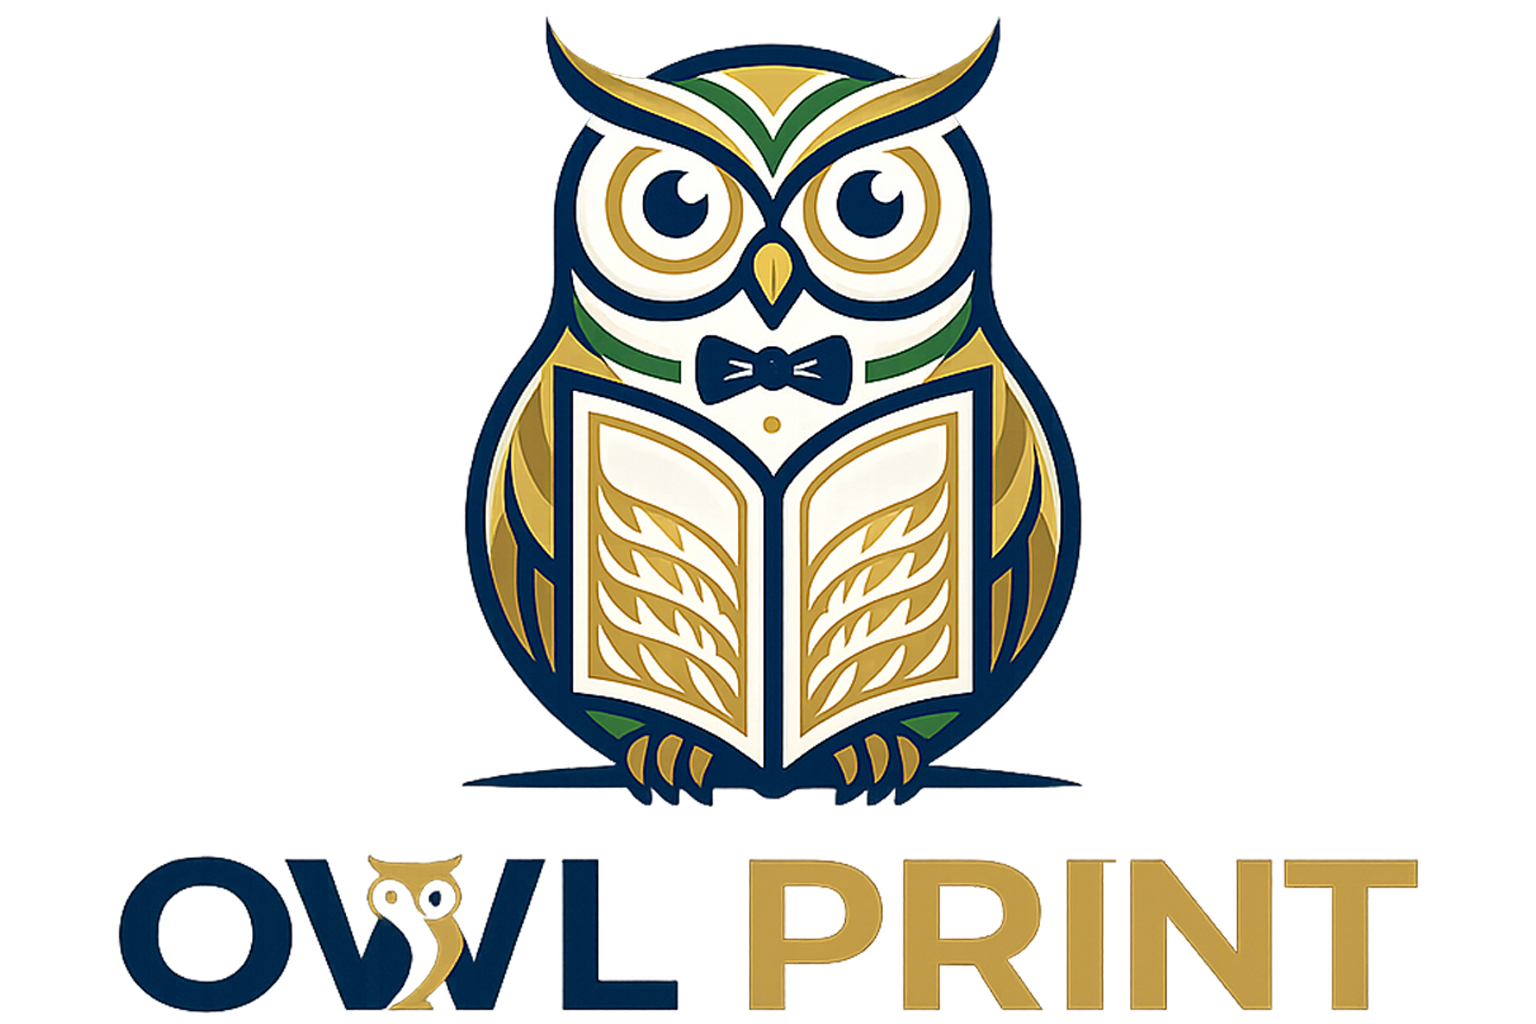
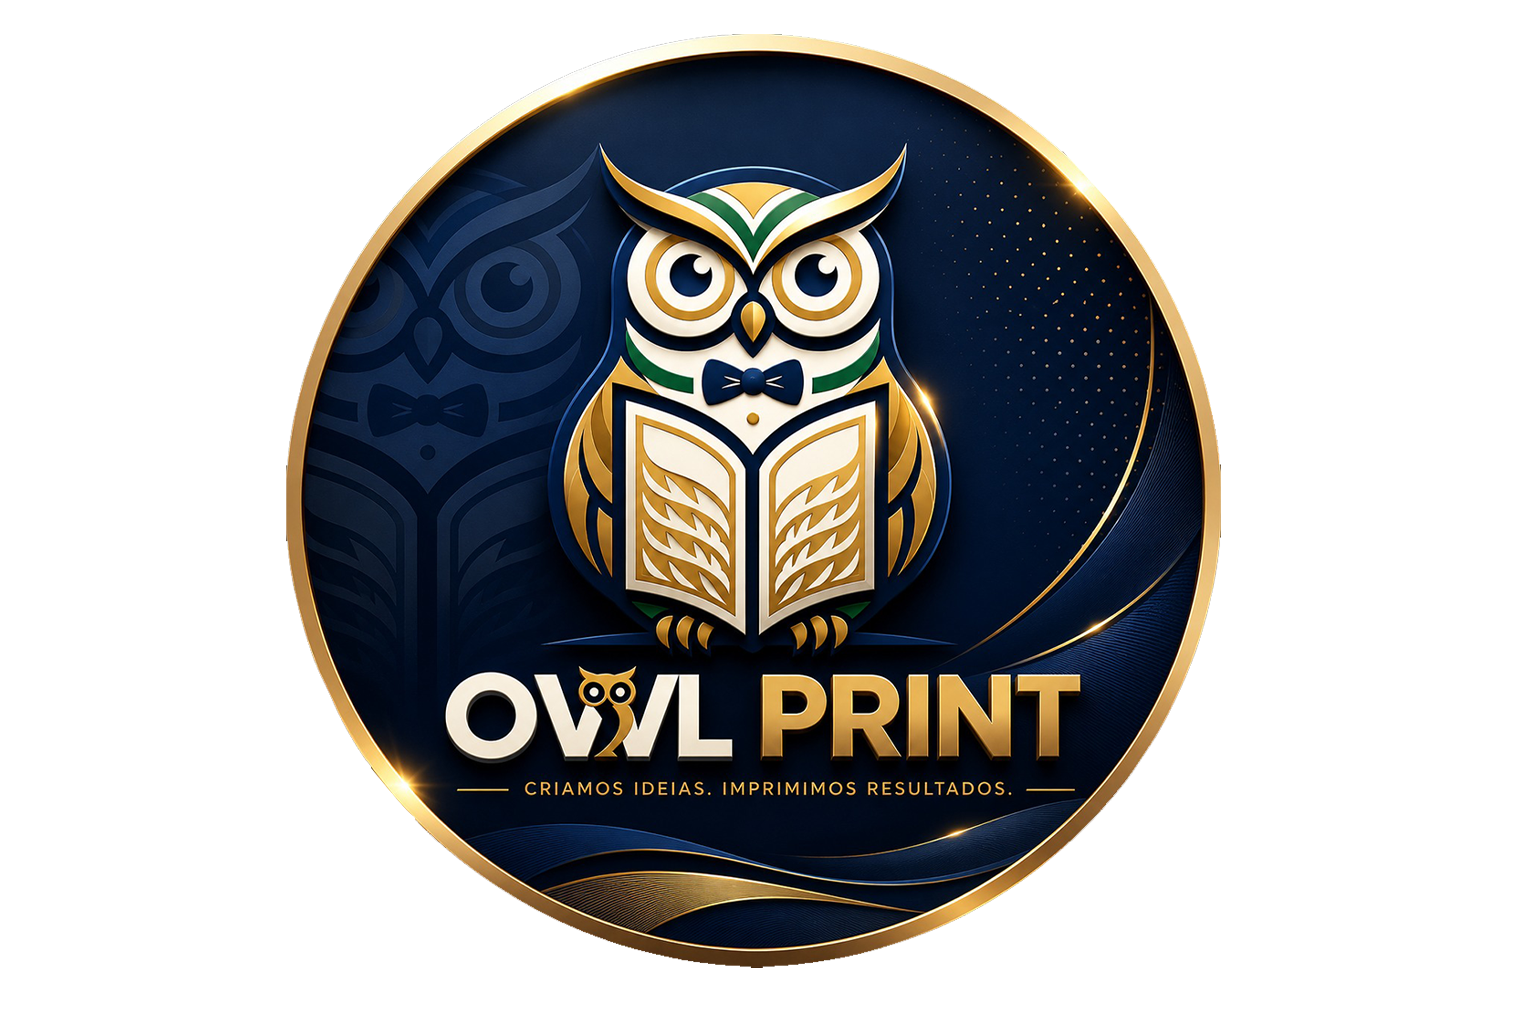
Integra Sistema WhatsApp

diff --git a/src/components/products/ProductCard.tsx b/src/components/products/ProductCard.tsx
@@ -38,7 +38,7 @@ export function ProductCard({ slug, name, category, image, href }: ProductCardPr
             />
           ) : (
             <div className="flex h-full items-center justify-center text-4xl text-premium/40">
-              🦉
+              <Image src="/owl-whatsapp.png" alt="WhatsApp" fill sizes="100%" className="object-cover" />
             </div>
           )}
         </div>